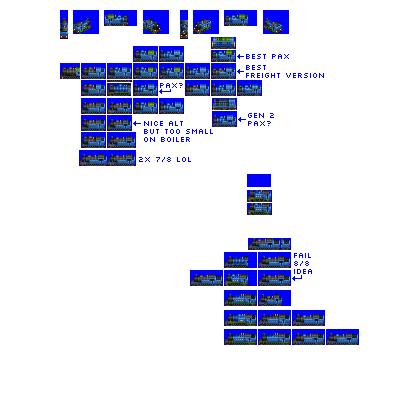
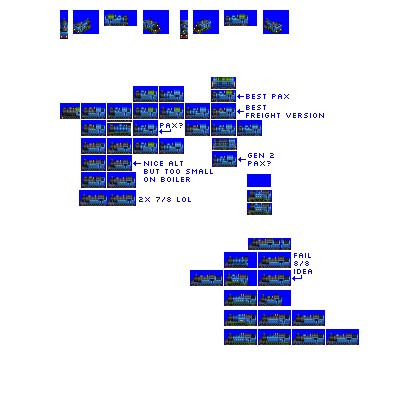
Change: WIP on Falcon, Foxhound, Stag, Decapod

diff --git a/src/rosters/pony.py b/src/rosters/pony.py
@@ -330,11 +330,11 @@ def main(disabled=False):
             # branch express
             lark,
             merrylegs,
-            #decapod,
+            decapod,
             proper_job,
-            #stag,
+            stag,
             kelpie,
-            #foxhound,
+            foxhound,
             griffon,
             lynx,
             pinhorse,
@@ -365,10 +365,10 @@ def main(disabled=False):
             revolution,
             pegasus,
             streamer,
-            #spitfire,
+            spitfire,
             dragon,
             vulcan,
-            #falcon,
+            falcon,
             onslaught,
             relentless,
             hurly_burly,

diff --git a/src/vehicles/foxhound.py b/src/vehicles/foxhound.py
@@ -15,14 +15,14 @@ def main(roster_id):
         intro_date_offset=-2,  # let's not have everything turn up in 1960
         gen=4,
         #alternative_cc_livery="RAILFREIGHT_RED_STRIPE",
-        sprites_complete=False,
+        sprites_complete=True,
     )
 
     consist.add_unit(
         type=DieselEngineUnit, weight=70, vehicle_length=6, spriterow_num=0
     )
 
-    consist.description = """."""
+    consist.description = """This one gets after it, no doubts at all."""
     consist.foamer_facts = """BR Class 21/22/29"""
 
     return consist

diff --git a/src/vehicles/decapod.py b/src/vehicles/decapod.py
@@ -22,8 +22,8 @@ def main(roster_id):
     consist.add_unit(type=SteamEngineUnit, weight=54, vehicle_length=6, spriterow_num=0)
 
     consist.description = (
-        """."""
+        """Don't know what they were thinking, but they asked me to build it. Well, it's done."""
     )
-    consist.foamer_facts = """ big tanks"""
+    consist.foamer_facts = """GER Class A55 <i>Decapod</i>"""
 
     return consist

diff --git a/src/vehicles/stag.py b/src/vehicles/stag.py
@@ -21,8 +21,8 @@ def main(roster_id):
     consist.add_unit(type=SteamEngineUnit, weight=60, vehicle_length=6, spriterow_num=0)
 
     consist.description = (
-        """."""
+        """Not the biggest, but quite a beast all the same."""
     )
-    consist.foamer_facts = """ big tanks"""
+    consist.foamer_facts = """Metropolitan Railway G Class (LNER M2), GCR Class D (LNER M1)"""
 
     return consist
